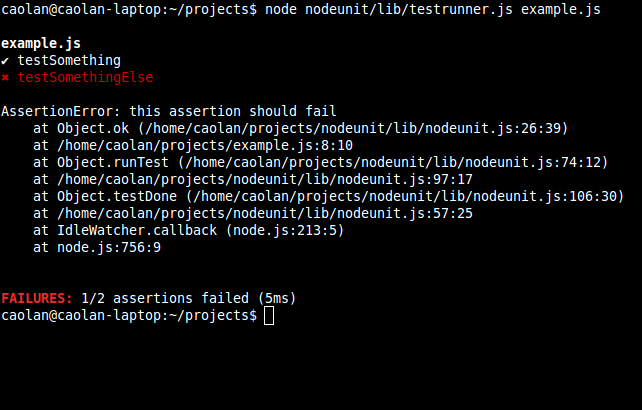
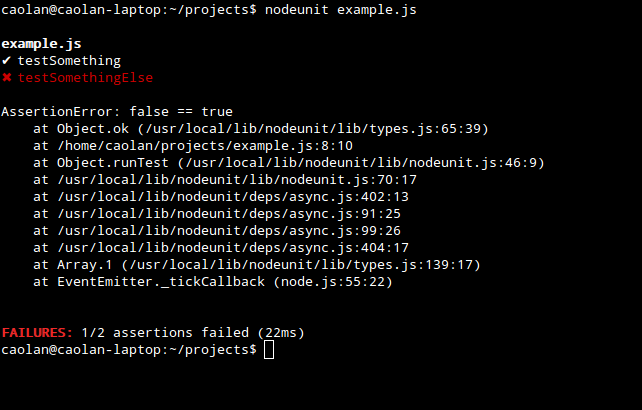
updated README to use command-line tool in examples

Changed region(s): [[0.0, 0.2634, 0.9969, 0.878], [0.0, 0.0, 0.9346, 0.0585], [0.0, 0.0878, 0.2492, 0.2049]]

diff --git a/README.md b/README.md
@@ -114,10 +114,10 @@ test.done() when finished.
 Running Tests
 -------------
 
-nodeunit comes with a basic command-line test runner, which exists in the lib
-folder. Example usage:
+nodeunit comes with a basic command-line test runner, which can be installed
+using 'make install'. Example usage:
 
-    node nodeunit/lib/testrunner.js testmodule1.js testfolder [...]
+    nodeunit testmodule1.js testfolder [...]
 
 The testrunner uses color output, because I think that's more fun :) I intend
 to add a no-color option in future. To give you a feeling of the fun you'll be
@@ -136,7 +136,8 @@ run directly from the command-line:
     }
 
 NOTE: this requires nodeunit to be in your require paths. You can make nodeunit
-available to all your projects by copying it to ~/.node-libraries
+available to all your projects by copying it to ~/.node-libraries or installing
+it via npm.
 
 When using the included test runner, it will exit using the failed number of
 assertions as the exit code. Exiting with 0 when all tests pass.
@@ -145,11 +146,12 @@ assertions as the exit code. Exiting with 0 when all tests pass.
 Adding nodeunit to Your Projects
 --------------------------------
 
-Usually, you'll want to create a script that runs the tests for your project
-with the correct require paths set up. Here's an example test script, with
-deps, lib and test directories:
+If you don't want people to have to install the nodeunit command-line tool,
+you'll want to create a script that runs the tests for your project with the
+correct require paths set up. Here's an example test script, with deps, lib and
+test directories:
 
-    #!/usr/local/bin/node
+    #!/usr/bin/env node
 
     require.paths.push(__dirname);
     require.paths.push(__dirname + '/deps');
@@ -175,7 +177,7 @@ the repository, nodeunit can be downloaded by doing the following:
 Let's update the test script above with a helpful hint on how to get nodeunit,
 if its missing:
 
-    #!/usr/local/bin/node
+    #!/usr/bin/env node
 
     require.paths.push(__dirname);
     require.paths.push(__dirname + '/deps');
@@ -230,7 +232,7 @@ The __assertion__ object:
 * __method__ - the nodeunit assertion method used (ok, same, equals...)
 * __message__ - the message the assertion method was called with (optional)
 
-The __assertions__ object:
+The __assertionList__ object:
 
 * An array-like object with the following new attributes:
   * __failures__ - the number of assertions which failed
